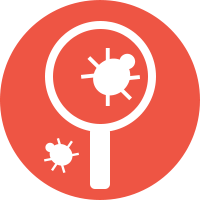
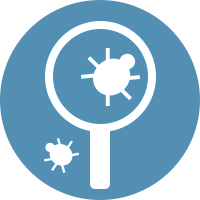
Add new features.

diff --git a/src/BarcelonaQACommunity/wwwroot/css/freelancer.min.css b/src/BarcelonaQACommunity/wwwroot/css/freelancer.min.css
@@ -2,4 +2,4 @@
  * Start Bootstrap - Freelancer v3.3.7+1 (http://startbootstrap.com/template-overviews/freelancer)
  * Copyright 2013-2016 Start Bootstrap
  * Licensed under MIT (https://github.com/BlackrockDigital/startbootstrap/blob/gh-pages/LICENSE)
- */body{font-family:Lato,'Helvetica Neue',Helvetica,Arial,sans-serif;overflow-x:hidden}p{font-size:20px}p.small{font-size:16px}a,a.active,a:active,a:focus,a:hover{color:#18BC9C;outline:0}h1,h2,h3,h4,h5,h6{font-family:Montserrat,"Helvetica Neue",Helvetica,Arial,sans-serif;text-transform:uppercase;font-weight:700}hr.star-light,hr.star-primary{padding:0;border:none;border-top:solid 5px;text-align:center;max-width:250px;margin:25px auto 30px}hr.star-light:after,hr.star-primary:after{content:"\f005";font-family:FontAwesome;display:inline-block;position:relative;top:-.8em;font-size:2em;padding:0 .25em}.navbar-custom,header .intro-text .name{font-family:Montserrat,"Helvetica Neue",Helvetica,Arial,sans-serif;text-transform:uppercase}hr.star-light{border-color:#fff}hr.star-light:after{background-color:#18BC9C;color:#fff}hr.star-primary{border-color:#2C3E50}hr.star-primary:after{background-color:#fff;color:#2C3E50}.navbar-custom .navbar-brand,.navbar-custom .navbar-brand.active,.navbar-custom .navbar-brand:active,.navbar-custom .navbar-brand:focus,.navbar-custom .navbar-brand:hover,.navbar-custom .navbar-nav li a,header{color:#fff}.img-centered{margin:0 auto}header{text-align:center;background:#18BC9C}header .container{padding-top:100px;padding-bottom:50px}header img{display:block;margin:0 auto 20px}header .intro-text .name{display:block;font-weight:700;font-size:2em}header .intro-text .skills{font-size:1.25em;font-weight:300}@media (min-width:768px){header .container{padding-top:200px;padding-bottom:100px}header .intro-text .name{font-size:4.75em}header .intro-text .skills{font-size:1.75em}}.navbar-custom{background:#2C3E50;font-weight:700;border:none}.navbar-custom a:focus{outline:0}.navbar-custom .navbar-nav{letter-spacing:1px}.navbar-custom .navbar-nav li a:hover{color:#18BC9C;outline:0}.navbar-custom .navbar-nav li a:active,.navbar-custom .navbar-nav li a:focus{color:#fff}.navbar-custom .navbar-nav li.active a,.navbar-custom .navbar-nav li.active a:active,.navbar-custom .navbar-nav li.active a:focus,.navbar-custom .navbar-nav li.active a:hover{color:#fff;background:#18BC9C}.navbar-custom .navbar-toggle{color:#fff;text-transform:uppercase;font-size:10px;border-color:#fff}.navbar-custom .navbar-toggle:focus,.navbar-custom .navbar-toggle:hover{background-color:#18BC9C;color:#fff;border-color:#18BC9C}@media (min-width:768px){.navbar-custom{padding:25px 0;-webkit-transition:padding .3s;-moz-transition:padding .3s;transition:padding .3s}.navbar-custom .navbar-brand{font-size:2em;-webkit-transition:all .3s;-moz-transition:all .3s;transition:all .3s}.navbar-custom.affix{padding:10px 0}.navbar-custom.affix .navbar-brand{font-size:1.5em}}section{padding:100px 0}section h2{margin:0;font-size:3em}section.success{background:#18BC9C;color:#fff}@media (max-width:767px){section{padding:75px 0}section.first{padding-top:75px}}#portfolio .portfolio-item{margin:0 0 15px;right:0}#portfolio .portfolio-item .portfolio-link{display:block;position:relative;max-width:400px;margin:0 auto}#portfolio .portfolio-item .portfolio-link .caption{background:rgba(24,188,156,.9);position:absolute;width:100%;height:100%;opacity:0;transition:all ease .5s;-webkit-transition:all ease .5s;-moz-transition:all ease .5s}#portfolio .portfolio-item .portfolio-link .caption:hover{opacity:1}#portfolio .portfolio-item .portfolio-link .caption .caption-content{position:absolute;width:100%;height:20px;font-size:20px;text-align:center;top:50%;margin-top:-12px;color:#fff}.btn-social,.scroll-top,.scroll-top .btn{width:50px;height:50px}#portfolio .portfolio-item .portfolio-link .caption .caption-content i{margin-top:-12px}#portfolio .portfolio-item .portfolio-link .caption .caption-content h3,#portfolio .portfolio-item .portfolio-link .caption .caption-content h4{margin:0}#portfolio *{z-index:2}@media (min-width:767px){#portfolio .portfolio-item{margin:0 0 30px}}.floating-label-form-group{position:relative;margin-bottom:0;padding-bottom:.5em;border-bottom:1px solid #eee}.floating-label-form-group input,.floating-label-form-group textarea{z-index:1;position:relative;padding-right:0;padding-left:0;border:none;border-radius:0;font-size:1.5em;background:0 0;box-shadow:none!important;resize:none}.floating-label-form-group label{display:block;z-index:0;position:relative;top:2em;margin:0;font-size:.85em;line-height:1.764705882em;vertical-align:middle;vertical-align:baseline;opacity:0;-webkit-transition:top .3s ease,opacity .3s ease;-moz-transition:top .3s ease,opacity .3s ease;-ms-transition:top .3s ease,opacity .3s ease;transition:top .3s ease,opacity .3s ease}.floating-label-form-group:not(:first-child){padding-left:14px;border-left:1px solid #eee}.floating-label-form-group-with-value label{top:0;opacity:1}.floating-label-form-group-with-focus label{color:#18BC9C}form .row:first-child .floating-label-form-group{border-top:1px solid #eee}footer{color:#fff}footer h3{margin-bottom:30px}footer .footer-above{padding-top:50px;background-color:#2C3E50}footer .footer-col{margin-bottom:50px}footer .footer-below{padding:25px 0;background-color:#233140}.btn-outline{color:#fff;font-size:20px;border:2px solid #fff;background:0 0;transition:all .3s ease-in-out;margin-top:15px}.btn-outline.active,.btn-outline:active,.btn-outline:focus,.btn-outline:hover{color:#18BC9C;background:#fff;border:2px solid #fff}.btn-primary.active,.btn-primary:active,.btn-success.active,.btn-success:active,.open .dropdown-toggle.btn-primary,.open .dropdown-toggle.btn-success{background-image:none}.btn-primary{color:#fff;background-color:#2C3E50;border-color:#2C3E50;font-weight:700}.btn-primary.active,.btn-primary:active,.btn-primary:focus,.btn-primary:hover,.open .dropdown-toggle.btn-primary{color:#fff;background-color:#1a242f;border-color:#161f29}.btn-primary.disabled,.btn-primary.disabled.active,.btn-primary.disabled:active,.btn-primary.disabled:focus,.btn-primary.disabled:hover,.btn-primary[disabled],.btn-primary[disabled].active,.btn-primary[disabled]:active,.btn-primary[disabled]:focus,.btn-primary[disabled]:hover,fieldset[disabled] .btn-primary,fieldset[disabled] .btn-primary.active,fieldset[disabled] .btn-primary:active,fieldset[disabled] .btn-primary:focus,fieldset[disabled] .btn-primary:hover{background-color:#2C3E50;border-color:#2C3E50}.btn-primary .badge{color:#2C3E50;background-color:#fff}.btn-success{color:#fff;background-color:#18BC9C;border-color:#18BC9C;font-weight:700}.btn-success.active,.btn-success:active,.btn-success:focus,.btn-success:hover,.open .dropdown-toggle.btn-success{color:#fff;background-color:#128f76;border-color:#11866f}.btn-success.disabled,.btn-success.disabled.active,.btn-success.disabled:active,.btn-success.disabled:focus,.btn-success.disabled:hover,.btn-success[disabled],.btn-success[disabled].active,.btn-success[disabled]:active,.btn-success[disabled]:focus,.btn-success[disabled]:hover,fieldset[disabled] .btn-success,fieldset[disabled] .btn-success.active,fieldset[disabled] .btn-success:active,fieldset[disabled] .btn-success:focus,fieldset[disabled] .btn-success:hover{background-color:#18BC9C;border-color:#18BC9C}.btn-success .badge{color:#18BC9C;background-color:#fff}.btn-social{display:inline-block;border:2px solid #fff;border-radius:100%;text-align:center;font-size:20px;line-height:45px}.btn.active,.btn:active,.btn:focus{outline:0}.scroll-top{position:fixed;right:2%;bottom:2%;z-index:1049}.scroll-top .btn{font-size:20px;border-radius:100%;line-height:28px}.scroll-top .btn:focus{outline:0}.portfolio-modal .modal-content{border-radius:0;background-clip:border-box;-webkit-box-shadow:none;box-shadow:none;border:none;min-height:100%;padding:100px 0;text-align:center}.portfolio-modal .modal-content h2{margin:0;font-size:3em}.portfolio-modal .modal-content img{margin-bottom:30px}.portfolio-modal .modal-content .item-details{margin:30px 0}.portfolio-modal .close-modal{position:absolute;width:75px;height:75px;background-color:transparent;top:25px;right:25px;cursor:pointer}.portfolio-modal .close-modal:hover{opacity:.3}.portfolio-modal .close-modal .lr{height:75px;width:1px;margin-left:35px;background-color:#2C3E50;transform:rotate(45deg);-ms-transform:rotate(45deg);-webkit-transform:rotate(45deg);z-index:1051}.portfolio-modal .close-modal .lr .rl{height:75px;width:1px;background-color:#2C3E50;transform:rotate(90deg);-ms-transform:rotate(90deg);-webkit-transform:rotate(90deg);z-index:1052}.portfolio-modal .modal-backdrop{opacity:0;display:none}
+ */body{font-family:Lato,'Helvetica Neue',Helvetica,Arial,sans-serif;overflow-x:hidden}p{font-size:20px}p.small{font-size:16px}a,a.active,a:active,a:focus,a:hover{color:#87D6E7;outline:0}h1,h2,h3,h4,h5,h6{font-family:Montserrat,"Helvetica Neue",Helvetica,Arial,sans-serif;text-transform:uppercase;font-weight:700}hr.star-light,hr.star-primary{padding:0;border:none;border-top:solid 5px;text-align:center;max-width:250px;margin:25px auto 30px}hr.star-light:after,hr.star-primary:after{content:"\f005";font-family:FontAwesome;display:inline-block;position:relative;top:-.8em;font-size:2em;padding:0 .25em}.navbar-custom,header .intro-text .name{font-family:Montserrat,"Helvetica Neue",Helvetica,Arial,sans-serif;text-transform:uppercase}hr.star-light{border-color:#fff}hr.star-light:after{background-color:#87D6E7;color:#fff}hr.star-primary{border-color:#2C3E50}hr.star-primary:after{background-color:#fff;color:#2C3E50}.navbar-custom .navbar-brand,.navbar-custom .navbar-brand.active,.navbar-custom .navbar-brand:active,.navbar-custom .navbar-brand:focus,.navbar-custom .navbar-brand:hover,.navbar-custom .navbar-nav li a,header{color:#fff}.img-centered{margin:0 auto}header{text-align:center;background:#87D6E7}header .container{padding-top:100px;padding-bottom:50px}header img{display:block;margin:0 auto 20px}header .intro-text .name{display:block;font-weight:700;font-size:2em}header .intro-text .skills{font-size:1.25em;font-weight:300}@media (min-width:768px){header .container{padding-top:200px;padding-bottom:100px}header .intro-text .name{font-size:4.75em}header .intro-text .skills{font-size:1.75em}}.navbar-custom{background:#2C3E50;font-weight:700;border:none}.navbar-custom a:focus{outline:0}.navbar-custom .navbar-nav{letter-spacing:1px}.navbar-custom .navbar-nav li a:hover{color:#87D6E7;outline:0}.navbar-custom .navbar-nav li a:active,.navbar-custom .navbar-nav li a:focus{color:#fff}.navbar-custom .navbar-nav li.active a,.navbar-custom .navbar-nav li.active a:active,.navbar-custom .navbar-nav li.active a:focus,.navbar-custom .navbar-nav li.active a:hover{color:#fff;background:#87D6E7}.navbar-custom .navbar-toggle{color:#fff;text-transform:uppercase;font-size:10px;border-color:#fff}.navbar-custom .navbar-toggle:focus,.navbar-custom .navbar-toggle:hover{background-color:#87D6E7;color:#fff;border-color:#87D6E7}@media (min-width:768px){.navbar-custom{padding:25px 0;-webkit-transition:padding .3s;-moz-transition:padding .3s;transition:padding .3s}.navbar-custom .navbar-brand{font-size:2em;-webkit-transition:all .3s;-moz-transition:all .3s;transition:all .3s}.navbar-custom.affix{padding:10px 0}.navbar-custom.affix .navbar-brand{font-size:1.5em}}section{padding:100px 0}section h2{margin:0;font-size:3em}section.success{background:#87D6E7;color:#fff}@media (max-width:767px){section{padding:75px 0}section.first{padding-top:75px}}#portfolio .portfolio-item{margin:0 0 15px;right:0}#portfolio .portfolio-item .portfolio-link{display:block;position:relative;max-width:400px;margin:0 auto}#portfolio .portfolio-item .portfolio-link .caption{background:rgba(135,214,231,.9);position:absolute;width:100%;height:100%;opacity:0;transition:all ease .5s;-webkit-transition:all ease .5s;-moz-transition:all ease .5s}#portfolio .portfolio-item .portfolio-link .caption:hover{opacity:1}#portfolio .portfolio-item .portfolio-link .caption .caption-content{position:absolute;width:100%;height:20px;font-size:20px;text-align:center;top:50%;margin-top:-12px;color:#fff}.btn-social,.scroll-top,.scroll-top .btn{width:50px;height:50px}#portfolio .portfolio-item .portfolio-link .caption .caption-content i{margin-top:-12px}#portfolio .portfolio-item .portfolio-link .caption .caption-content h3,#portfolio .portfolio-item .portfolio-link .caption .caption-content h4{margin:0}#portfolio *{z-index:2}@media (min-width:767px){#portfolio .portfolio-item{margin:0 0 30px}}.floating-label-form-group{position:relative;margin-bottom:0;padding-bottom:.5em;border-bottom:1px solid #eee}.floating-label-form-group input,.floating-label-form-group textarea{z-index:1;position:relative;padding-right:0;padding-left:0;border:none;border-radius:0;font-size:1.5em;background:0 0;box-shadow:none!important;resize:none}.floating-label-form-group label{display:block;z-index:0;position:relative;top:2em;margin:0;font-size:.85em;line-height:1.764705882em;vertical-align:middle;vertical-align:baseline;opacity:0;-webkit-transition:top .3s ease,opacity .3s ease;-moz-transition:top .3s ease,opacity .3s ease;-ms-transition:top .3s ease,opacity .3s ease;transition:top .3s ease,opacity .3s ease}.floating-label-form-group:not(:first-child){padding-left:14px;border-left:1px solid #eee}.floating-label-form-group-with-value label{top:0;opacity:1}.floating-label-form-group-with-focus label{color:#87D6E7}form .row:first-child .floating-label-form-group{border-top:1px solid #eee}footer{color:#fff}footer h3{margin-bottom:30px}footer .footer-above{padding-top:50px;background-color:#2C3E50}footer .footer-col{margin-bottom:50px}footer .footer-below{padding:25px 0;background-color:#233140}.btn-outline{color:#fff;font-size:20px;border:2px solid #fff;background:0 0;transition:all .3s ease-in-out;margin-top:15px}.btn-outline.active,.btn-outline:active,.btn-outline:focus,.btn-outline:hover{color:#87D6E7;background:#fff;border:2px solid #fff}.btn-primary.active,.btn-primary:active,.btn-success.active,.btn-success:active,.open .dropdown-toggle.btn-primary,.open .dropdown-toggle.btn-success{background-image:none}.btn-primary{color:#fff;background-color:#2C3E50;border-color:#2C3E50;font-weight:700}.btn-primary.active,.btn-primary:active,.btn-primary:focus,.btn-primary:hover,.open .dropdown-toggle.btn-primary{color:#fff;background-color:#1a242f;border-color:#161f29}.btn-primary.disabled,.btn-primary.disabled.active,.btn-primary.disabled:active,.btn-primary.disabled:focus,.btn-primary.disabled:hover,.btn-primary[disabled],.btn-primary[disabled].active,.btn-primary[disabled]:active,.btn-primary[disabled]:focus,.btn-primary[disabled]:hover,fieldset[disabled] .btn-primary,fieldset[disabled] .btn-primary.active,fieldset[disabled] .btn-primary:active,fieldset[disabled] .btn-primary:focus,fieldset[disabled] .btn-primary:hover{background-color:#2C3E50;border-color:#2C3E50}.btn-primary .badge{color:#2C3E50;background-color:#fff}.btn-success{color:#fff;background-color:#87D6E7;border-color:#87D6E7;font-weight:700}.btn-success.active,.btn-success:active,.btn-success:focus,.btn-success:hover,.open .dropdown-toggle.btn-success{color:#fff;background-color:#128f76;border-color:#11866f}.btn-success.disabled,.btn-success.disabled.active,.btn-success.disabled:active,.btn-success.disabled:focus,.btn-success.disabled:hover,.btn-success[disabled],.btn-success[disabled].active,.btn-success[disabled]:active,.btn-success[disabled]:focus,.btn-success[disabled]:hover,fieldset[disabled] .btn-success,fieldset[disabled] .btn-success.active,fieldset[disabled] .btn-success:active,fieldset[disabled] .btn-success:focus,fieldset[disabled] .btn-success:hover{background-color:#87D6E7;border-color:#87D6E7}.btn-success .badge{color:#87D6E7;background-color:#fff}.btn-social{display:inline-block;border:2px solid #fff;border-radius:100%;text-align:center;font-size:20px;line-height:45px}.btn.active,.btn:active,.btn:focus{outline:0}.scroll-top{position:fixed;right:2%;bottom:2%;z-index:1049}.scroll-top .btn{font-size:20px;border-radius:100%;line-height:28px}.scroll-top .btn:focus{outline:0}.portfolio-modal .modal-content{border-radius:0;background-clip:border-box;-webkit-box-shadow:none;box-shadow:none;border:none;min-height:100%;padding:100px 0;text-align:center}.portfolio-modal .modal-content h2{margin:0;font-size:3em}.portfolio-modal .modal-content img{margin-bottom:30px}.portfolio-modal .modal-content .item-details{margin:30px 0}.portfolio-modal .close-modal{position:absolute;width:75px;height:75px;background-color:transparent;top:25px;right:25px;cursor:pointer}.portfolio-modal .close-modal:hover{opacity:.3}.portfolio-modal .close-modal .lr{height:75px;width:1px;margin-left:35px;background-color:#2C3E50;transform:rotate(45deg);-ms-transform:rotate(45deg);-webkit-transform:rotate(45deg);z-index:1051}.portfolio-modal .close-modal .lr .rl{height:75px;width:1px;background-color:#2C3E50;transform:rotate(90deg);-ms-transform:rotate(90deg);-webkit-transform:rotate(90deg);z-index:1052}.portfolio-modal .modal-backdrop{opacity:0;display:none}

diff --git a/src/BarcelonaQACommunity/wwwroot/css/freelancer.css b/src/BarcelonaQACommunity/wwwroot/css/freelancer.css
@@ -18,7 +18,7 @@ a:hover,
 a:focus,
 a:active,
 a.active {
-  color: #18BC9C;
+  color: #87D6E7;
   outline: none;
 }
 h1,
@@ -54,7 +54,7 @@ hr.star-light {
   border-color: white;
 }
 hr.star-light:after {
-  background-color: #18BC9C;
+  background-color: #87D6E7;
   color: white;
 }
 hr.star-primary {
@@ -69,7 +69,7 @@ hr.star-primary:after {
 }
 header {
   text-align: center;
-  background: #18BC9C;
+  background: #87D6E7;
   color: white;
 }
 header .container {
@@ -129,7 +129,7 @@ header .intro-text .skills {
   color: white;
 }
 .navbar-custom .navbar-nav li a:hover {
-  color: #18BC9C;
+  color: #87D6E7;
   outline: none;
 }
 .navbar-custom .navbar-nav li a:focus,
@@ -138,13 +138,13 @@ header .intro-text .skills {
 }
 .navbar-custom .navbar-nav li.active a {
   color: white;
-  background: #18BC9C;
+  background: #87D6E7;
 }
 .navbar-custom .navbar-nav li.active a:hover,
 .navbar-custom .navbar-nav li.active a:focus,
 .navbar-custom .navbar-nav li.active a:active {
   color: white;
-  background: #18BC9C;
+  background: #87D6E7;
 }
 .navbar-custom .navbar-toggle {
   color: white;
@@ -154,9 +154,9 @@ header .intro-text .skills {
 }
 .navbar-custom .navbar-toggle:hover,
 .navbar-custom .navbar-toggle:focus {
-  background-color: #18BC9C;
+  background-color: #87D6E7;
   color: white;
-  border-color: #18BC9C;
+  border-color: #87D6E7;
 }
 @media (min-width: 768px) {
   .navbar-custom {
@@ -186,7 +186,7 @@ section h2 {
   font-size: 3em;
 }
 section.success {
-  background: #18BC9C;
+  background: #87D6E7;
   color: white;
 }
 @media (max-width: 767px) {
@@ -289,7 +289,7 @@ section.success {
   opacity: 1;
 }
 .floating-label-form-group-with-focus label {
-  color: #18BC9C;
+  color: #87D6E7;
 }
 form .row:first-child .floating-label-form-group {
   border-top: 1px solid #eeeeee;
@@ -323,7 +323,7 @@ footer .footer-below {
 .btn-outline:focus,
 .btn-outline:active,
 .btn-outline.active {
-  color: #18BC9C;
+  color: #87D6E7;
   background: white;
   border: solid 2px white;
 }
@@ -371,8 +371,8 @@ fieldset[disabled] .btn-primary.active {
 }
 .btn-success {
   color: white;
-  background-color: #18BC9C;
-  border-color: #18BC9C;
+  background-color: #87D6E7;
+  border-color: #87D6E7;
   font-weight: 700;
 }
 .btn-success:hover,
@@ -404,11 +404,11 @@ fieldset[disabled] .btn-success:active,
 .btn-success.disabled.active,
 .btn-success[disabled].active,
 fieldset[disabled] .btn-success.active {
-  background-color: #18BC9C;
-  border-color: #18BC9C;
+  background-color: #87D6E7;
+  border-color: #87D6E7;
 }
 .btn-success .badge {
-  color: #18BC9C;
+  color: #87D6E7;
   background-color: white;
 }
 .btn-social {
